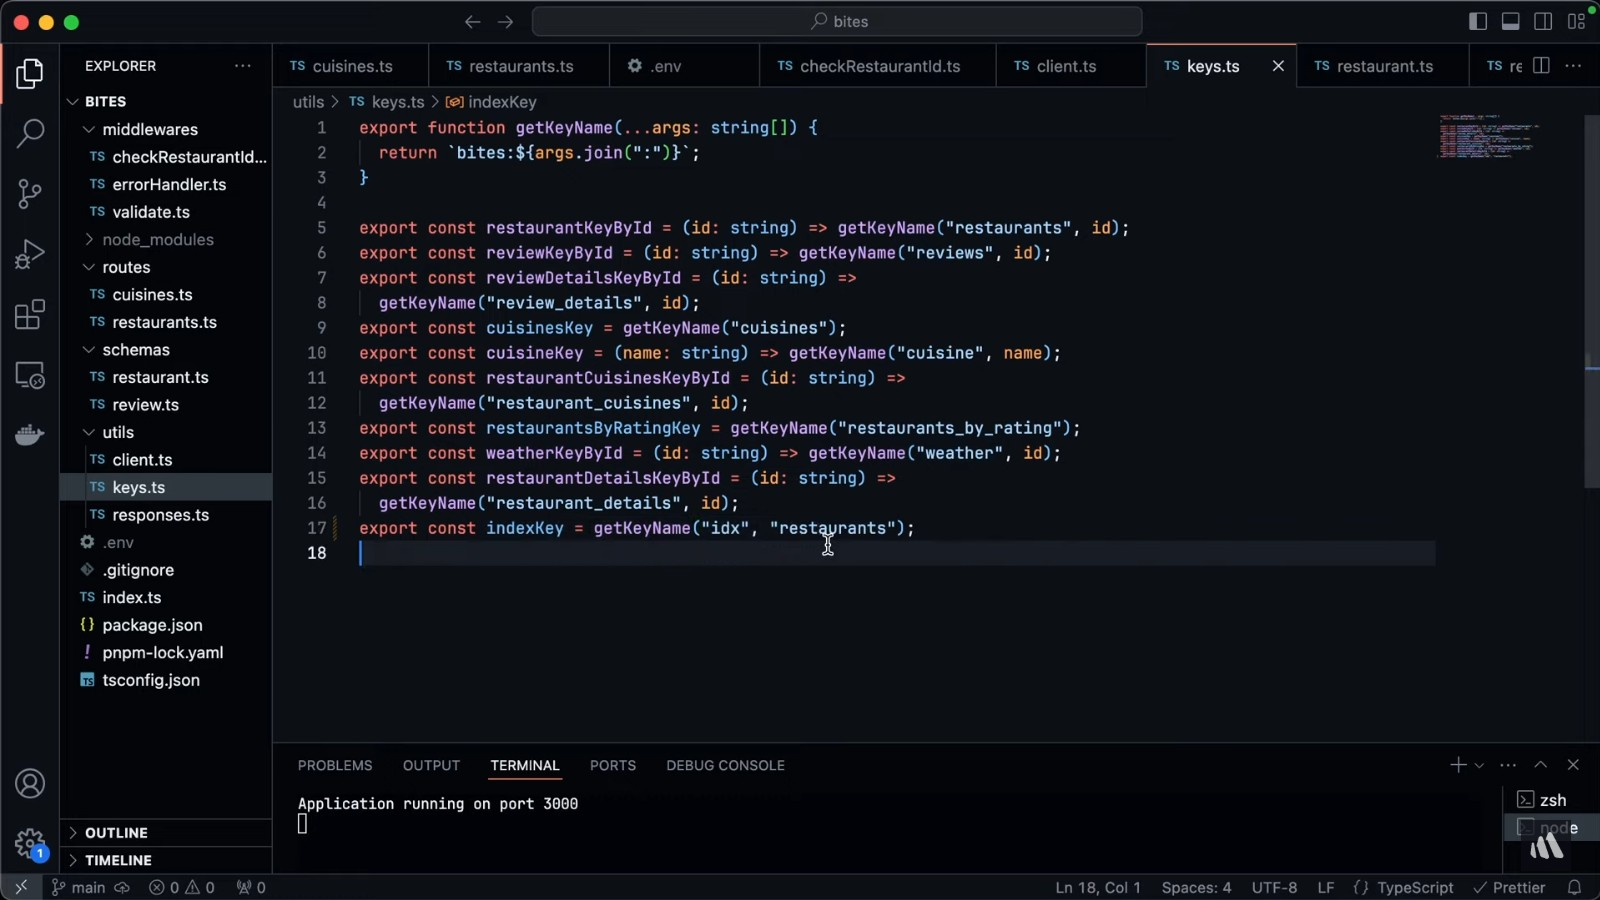
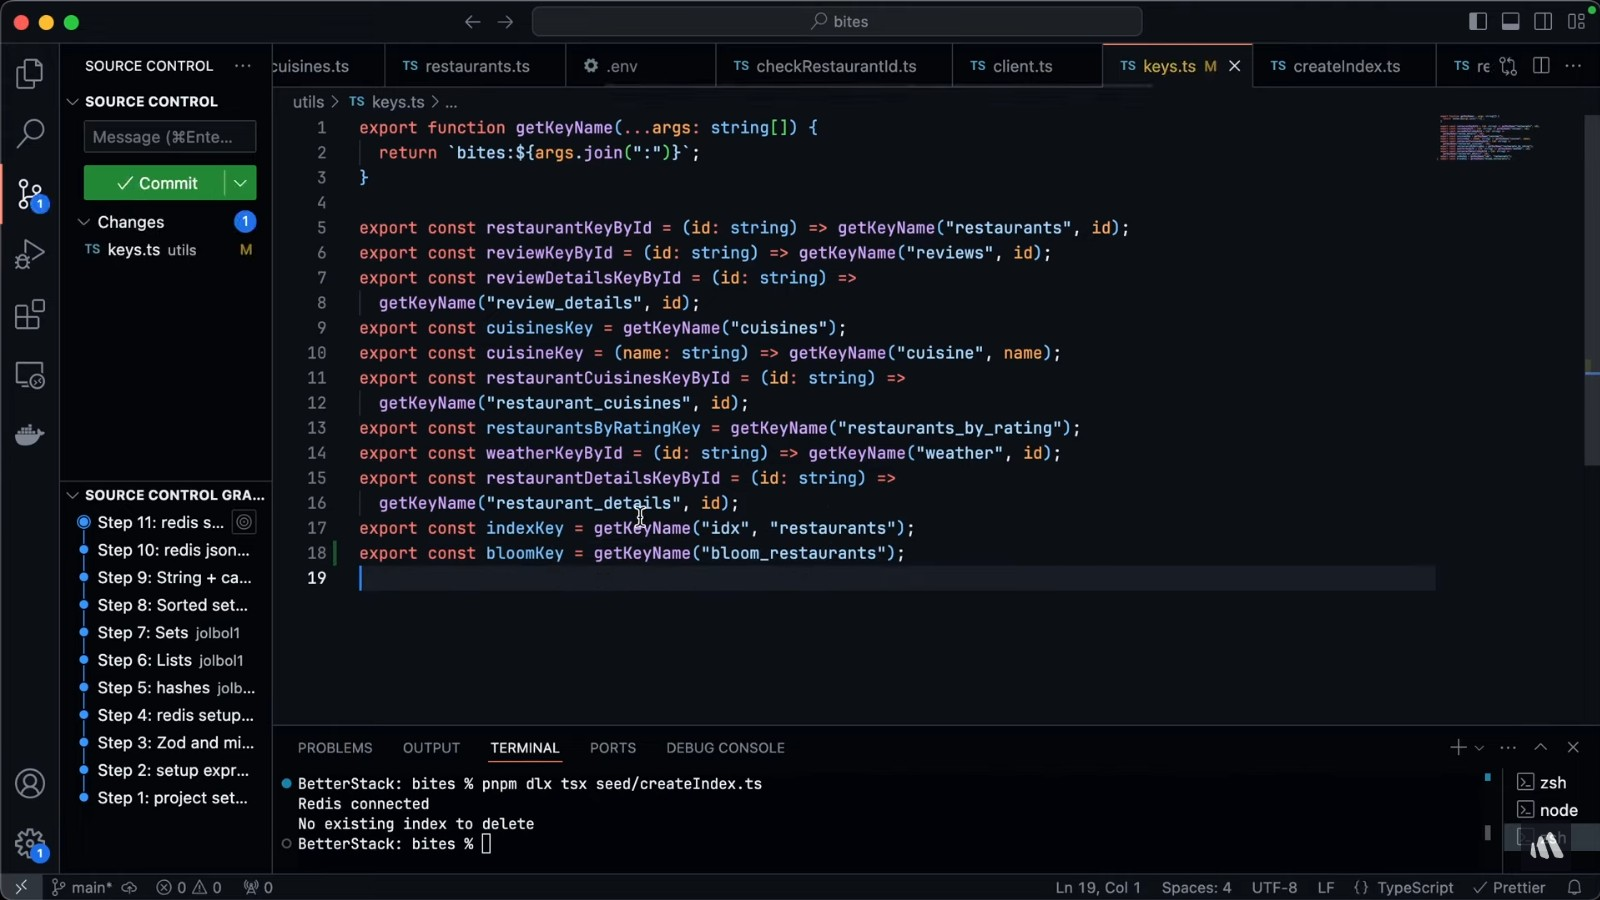
write more

diff --git a/keys.ts b/keys.ts
@@ -1,0 +1,18 @@
+export function getKeyName(...args: string[]) {
+  return `bites:${args.join(":")}`;
+}
+
+export const restaurantKeyById = (id: string) => getKeyName("restaurants", id);
+export const reviewKeyById = (id: string) => getKeyName("reviews", id);
+export const reviewDetailsKeyById = (id: string) =>
+  getKeyName("review_details", id);
+export const cuisinesKey = getKeyName("cuisines");
+export const cuisineKey = (name: string) => getKeyName("cuisine", name);
+export const restaurantCuisinesKeyById = (id: string) =>
+  getKeyName("restaurant_cuisines", id);
+export const restaurantsByRatingKey = getKeyName("restaurants_by_rating");
+export const weatherKeyById = (id: string) => getKeyName("weather", id);
+export const restaurantDetailsKeyById = (id: string) =>
+  getKeyName("restaurant_details", id);
+export const indexKey = getKeyName("idx", "restaurants");
+export const bloomKey = getKeyName("bloom_restaurants");

diff --git a/createIndex.ts b/createIndex.ts
@@ -1,0 +1,39 @@
+import { SchemaFieldTypes } from "redis";
+import { initializeRedisClient } from "../utils/client.js";
+import { indexKey, getKeyName } from "../utils/keys.js";
+
+async function createIndex() {
+  const client = await initializeRedisClient();
+
+  try {
+    await client.ft.dropIndex(indexKey);
+  } catch (err) {
+    console.log("No existing index to delete");
+  }
+
+  await client.ft.create(
+    indexKey,
+    {
+      id: {
+        type: SchemaFieldTypes.TEXT,
+        AS: "id",
+      },
+      name: {
+        type: SchemaFieldTypes.TEXT,
+        AS: "name",
+      },
+      avgStars: {
+        type: SchemaFieldTypes.NUMERIC,
+        AS: "avgStars",
+        SORTABLE: true,
+      },
+    },
+    {
+      ON: "HASH",
+      PREFIX: getKeyName("restaurants"),
+    }
+  );
+}
+
+await createIndex();
+process.exit();

diff --git a/bloomFilter.ts b/bloomFilter.ts
@@ -1,0 +1,13 @@
+import { initializeRedisClient } from "../utils/client.js";
+import { bloomKey } from "../utils/keys.js";
+
+async function createBloomFilter() {
+  const client = await initializeRedisClient();
+  await Promise.all([
+    client.del(bloomKey),
+    client.bf.reserve(bloomKey, 0.0001, 1000000),
+  ]);
+}
+
+await createBloomFilter();
+process.exit();

diff --git a/README.4.md b/README.4.md
@@ -701,9 +701,11 @@ As a last [bonus](README.cont.md), any RDBMS capable of storing array of float a
 #### Epilogue 
 "Study things carefully and you will see their difference. More importantly is to know WHY they are different. For everything has a reason.. "
 
-"It's a kind of superstitious, superstitious in science and betrayal of common sense..."
-
 [Modern Redis Crash Course: Backend with Express, TypeScript and Zod]()
+
+![alt create index](img/createIndex-1.JPG)
+
+"It's a kind of superstitious, superstitious in science and betrayal of common sense..."
 
 
 ### EOF (2025/07/04)
